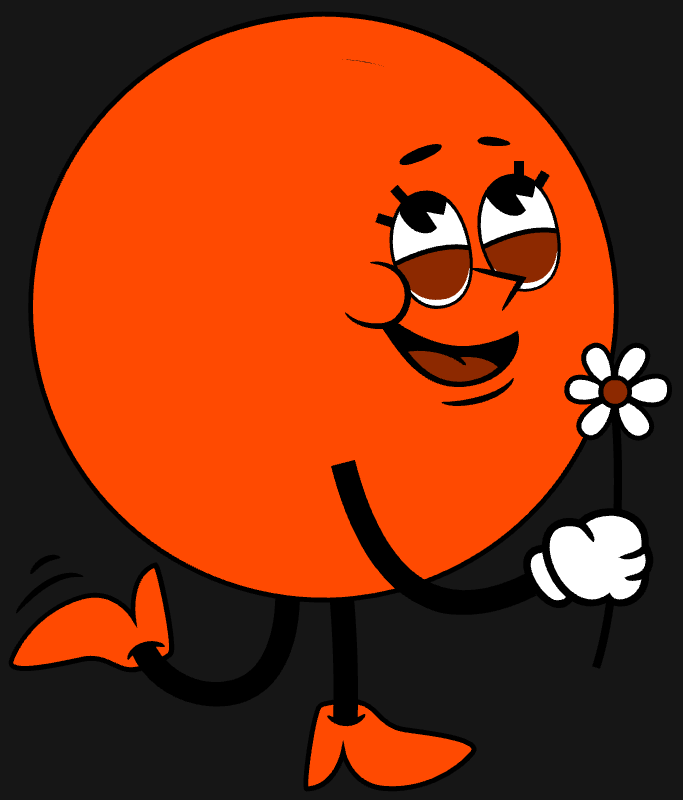
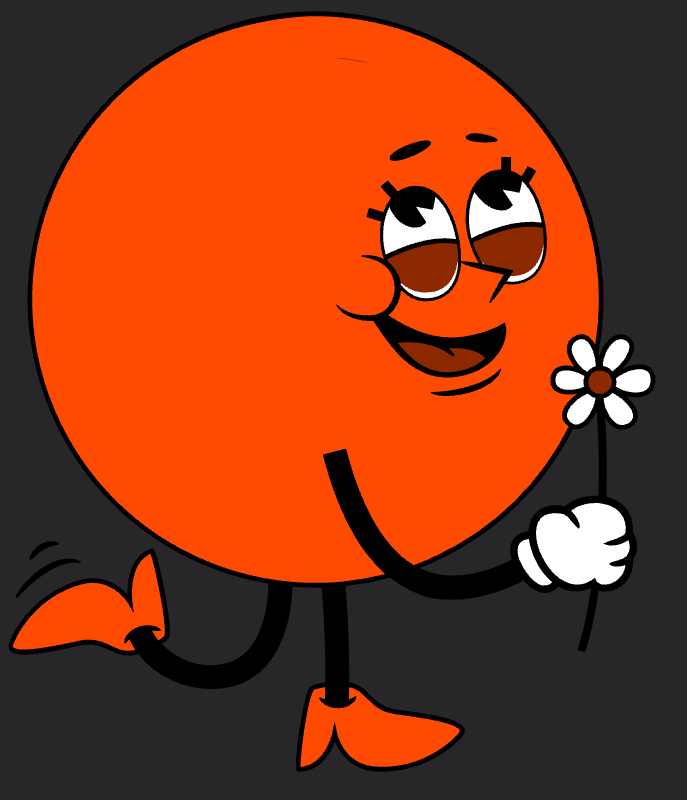
Home page and footer mega update

diff --git a/src/pages/Home.jsx b/src/pages/Home.jsx
@@ -1,9 +1,18 @@
+import {
+  MdConnectWithoutContact,
+  MdQueueMusic,
+  MdTrendingUp,
+} from "react-icons/md";
+import { useNavigate } from "react-router-dom";
+
 function Home() {
+  const navigate = useNavigate();
+
   return (
-    <div className="flex justify-center mb-10">
-      <div className="flex items-center w-10/12">
-        <div className="w-6/12 md:w-9/12">
-          <h1 className="text-5xl md:text-8xl font-extrabold tracking-wide">
+    <div className="mb-10">
+      <div className="grid grid-cols-1 md:grid-cols-3 mx-20">
+        <div className="md:col-span-2 text-center md:text-start">
+          <h1 className="text-5xl md:text-7xl font-extrabold tracking-wide">
             See the <span className="text-[#ff4a01]">Spotlight</span> before it
             Shines
           </h1>
@@ -11,13 +20,83 @@ function Home() {
             Get insights into your song’s potential with our Spotify-driven
             predictions
           </h2>
+          <button
+            onClick={() => navigate("/songs")}
+            className="text-2xl bg-[#ff4a01] p-2 w-60 rounded-full hover:bg-[#ff672b] mt-4"
+          >
+            Predict Now
+          </button>
         </div>
-        <div className="w-6/12 md:w-3/12">
-          <div className="w-[300px] sm:w-[300px] md:w-[250px] lg:w-[350px] xl:w-[500px] pr-6">
-            <img src="/Home1.png" className="object-cover" />
-          </div>
+        <div className="flex justify-center items-center mt-4 md:mt-0">
+          <img
+            src="/Home1.png"
+            className="w-[300px] sm:w-[300px] md:w-[250px] lg:w-[350px] xl:w-[400px] object-cover"
+          />
         </div>
       </div>
+      <div className="flex flex-col items-center mt-32 mb-10">
+        <div className="py-1 px-10 bg-zinc-800 rounded-lg">Key Features</div>
+        <h1 className="text-center text-5xl font-bold tracking-wide mt-4">
+          The Must-Knows
+        </h1>
+        <h3 className="text-center text-gray-400 text-xl mt-4">
+          The secret to a successful track lies in the details. Learn how these
+          key features influence the popularity of your songs.
+        </h3>
+      </div>
+      <div className="grid grid-cols-1 md:grid-cols-2 mx-20 mt-10">
+        <div>
+          <h4 className="text-2xl font-semibold flex items-center">
+            <MdTrendingUp />
+            <span className="ms-2">How We Forecast Music Popularity</span>
+          </h4>
+          <p className="text-base text-gray-400">
+            Our popularity prediction model dissects the key attributes of a
+            song—duration, tempo, loudness, key, mode, and signature—to gauge
+            its potential impact. By analyzing these features, we provide
+            insights into how your track might resonate with listeners, helping
+            you understand the elements that drive success in today’s music
+            landscape.
+          </p>
+          <h4 className="text-2xl font-semibold mt-6 flex items-center">
+            <MdQueueMusic />
+            <span className="ms-2">Discover Similar Tracks</span>
+          </h4>
+          <p className="text-base text-gray-400">
+            Our recommendation feature taps directly into Spotify’s vast music
+            library to bring you songs that align with your song. By leveraging
+            this integration, we offer personalized suggestions based on similar
+            tracks, ensuring you know which music resonates the most with your
+            song style.
+          </p>
+          <h4 className="text-2xl font-semibold mt-6 flex items-center">
+            <MdConnectWithoutContact />
+            <span className="ms-2">Find Artists to Collaborate With</span>
+          </h4>
+          <p className="text-base text-gray-400">
+            By integrating with Spotify, we identify potential collaborators
+            whose style complements yours, helping you grow your fan base and
+            reach new listeners. Collaborating with the right artists can help
+            you tap into new fan bases, amplify your audience, and boost your
+            visibility in the music scene.
+          </p>
+        </div>
+        <div className="flex justify-center items-center mt-4 md:mt-0">
+          <img src="/Home2.png" className="w-[350px]" />
+        </div>
+      </div>
+      <div className="flex flex-col items-center mt-40 mb-28">
+        <div className="py-1 px-10 bg-zinc-800 rounded-lg">Pricing</div>
+        <h1 className="text-center text-5xl font-bold tracking-wide mt-4">
+          No Fees, Just Music
+        </h1>
+        <h3 className="text-center text-gray-400 text-xl mt-4 mx-20">
+          Enjoy the freedom to create and grow without worrying about costs.
+          We’re excited to give you access to all our features for free, so you
+          can dive straight into what really matters—your music.
+        </h3>
+      </div>
+      {/* Card with more details about free, similar to artists card */}
     </div>
   );
 }

diff --git a/src/layouts/MainLayout.jsx b/src/layouts/MainLayout.jsx
@@ -1,13 +1,14 @@
 import { Outlet } from "react-router-dom";
 import ButtonNav from "../components/Layout/Button";
 import { useLocation } from "react-router-dom";
+import { FaGithub, FaLinkedin } from "react-icons/fa";
 
 function MainLayout() {
   const location = useLocation();
 
   return (
     <div>
-      <header className="flex justify-center mb-2 sm:mb-20 mt-2">
+      <header className="flex justify-center pb-8 sm:pb-20 pt-8">
         <ul className="flex justify-center items-center h-14 sm:border-solid sm:border-white sm:border-2 sm:rounded-full max-w-3xl">
           <li>
             <ButtonNav active={location.pathname === "/"} link={""}>
@@ -53,24 +54,21 @@ function MainLayout() {
       <main>
         <Outlet />
       </main>
-      <footer className="bg-zinc-800 px-20 py-10 grid grid-cols-3 gap-4">
-        <div>
-          <h1 className="text-xl">Contact</h1>
-          <h2 className="text-gray-400 text-base">XXXXX</h2>
-          <h2 className="text-gray-400 text-base">XXXXX</h2>
-          <h2 className="text-gray-400 text-base">XXXXX</h2>
-          <h2 className="text-gray-400 text-base">XXXXX</h2>
+      <footer className="bg-zinc-800 px-20 py-6 grid grid-cols-2">
+        <div className="flex items-center">
+          <img src="/Home3.png" className="w-20" />
+          <div className="ml-4">
+            <h5>Luis Enrique Menéndez</h5>
+            <h5 className="text-gray-400">lmenendez@unis.edu.gt</h5>
+          </div>
         </div>
-        <div>
-          <h1 className="text-xl">Info</h1>
-          <h2 className="text-gray-400 text-base">XXXXX</h2>
-          <h2 className="text-gray-400 text-base">XXXXX</h2>
-          <h2 className="text-gray-400 text-base">XXXXX</h2>
-        </div>
-        <div>
-          <h1 className="text-xl">Me</h1>
-          <h2 className="text-gray-400 text-base">XXXXX</h2>
-          {/* <img src="/Home3.png" /> */}
+        <div className="flex items-center justify-end">
+          <a href="https://www.linkedin.com/in/luis-enrique-menendez-figueroa-6953a925b/">
+            <FaLinkedin size={26} />
+          </a>
+          <a href="https://github.com/wuiquique" className="ml-2">
+            <FaGithub size={26} />
+          </a>
         </div>
       </footer>
     </div>

diff --git a/src/pages/Songs/Detail.jsx b/src/pages/Songs/Detail.jsx
@@ -132,7 +132,7 @@ function SongDetail() {
               </h1>
               <button
                 onClick={getPrediction}
-                className="text-2xl bg-[#ff4a01] p-2 w-60 rounded-full"
+                className="text-2xl bg-[#ff4a01] p-2 w-60 rounded-full hover:bg-[#ff672b]"
               >
                 Predict Now
               </button>

diff --git a/src/index.css b/src/index.css
@@ -8,15 +8,17 @@
   font-weight: 400;
   font-style: normal;
 
-  background-color: #161616;
+  background-color: #27272A;
   color: white;
   overflow-x: hidden;
 }
 
 header {
+    background-color: #161616;
     padding: 20px;
 }
 
 main {
+    background-color: #161616;
     padding: 20px;
 }
